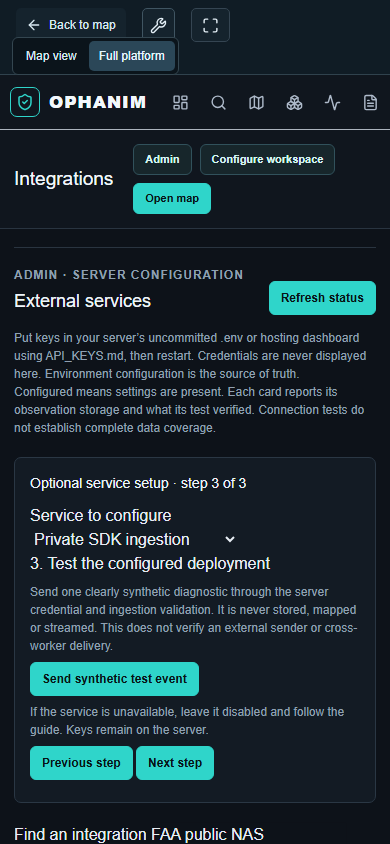
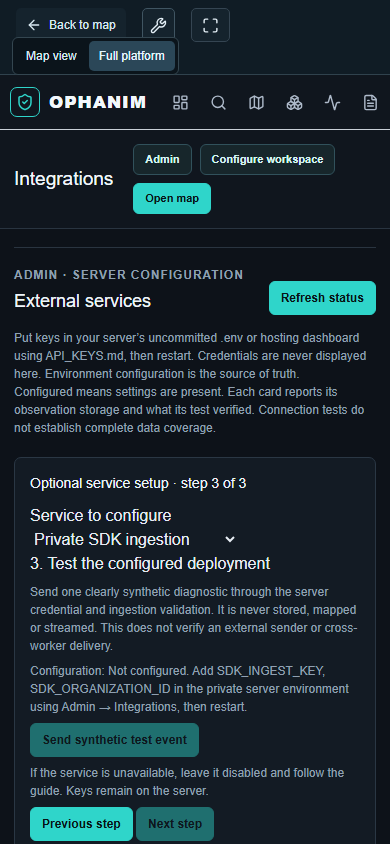
fix: recover keyless standalone maps with visible source attribution

Changed region(s): [[0.0308, 0.7701, 0.8923, 1.0]]

diff --git a/src/lib/integrations/catalog.ts b/src/lib/integrations/catalog.ts
@@ -1,4 +1,6 @@
 import countryData from '../intelligence/country-gazetteer.json' with { type: 'json' };
+import basemapSources from '../map/basemap-sources.json' with { type: 'json' };
+const OPEN_FREE_MAP = basemapSources.openFreeMap, NATURAL_EARTH_BASEMAP = basemapSources.naturalEarth;
 const COUNTRY_REFERENCE = countryData.metadata;
 /** Public metadata only. Never put credential values in this module. */
 export interface IntegrationDefinition {
@@ -19,6 +21,13 @@ const entry = (id: string, name: string, area: string, variables: string[], unlo
   ({ id, name, area, variables, unlocks, pricing, signup, fallback, ...(probe ? { probe } : {}) });
 
 export const INTEGRATIONS: IntegrationDefinition[] = [
+  ...[OPEN_FREE_MAP,NATURAL_EARTH_BASEMAP].map(source=>({
+    ...entry(source.id,source.name,'Maps',[],source.id==='openfreemap-dark'?'Keyless interactive basemap':'Labelled local reference fallback',
+      source.id==='openfreemap-dark'?'Free public map display, no account or API key; no promised SLA.':'Bundled public-domain reference, no fee or key.',
+      source.source,'Bundled Natural Earth geography; operational source status is separate.',
+      source.id==='openfreemap-dark'?OPEN_FREE_MAP.styleUrl:undefined),
+    licence:{name:source.licence,commercialUse:source.commercialUse==='yes'?'yes' as const:source.commercialUse==='no'?'no' as const:'unknown' as const,attribution:source.attribution,rateLimits:source.rateLimits,keyNeeded:false,termsUrl:source.termsUrl},
+  })),
   { ...entry('icu-country-labels', COUNTRY_REFERENCE.name, 'Reference data', [], 'Deterministic English/Arabic country and territory dictionary', 'Bundled ICU/CLDR reference, no key, no runtime requests or paid quota.', COUNTRY_REFERENCE.source, 'Local dictionary works offline; ambiguous bare names are withheld.'), licence: { name: COUNTRY_REFERENCE.licence, commercialUse: 'yes', attribution: COUNTRY_REFERENCE.attribution, rateLimits: COUNTRY_REFERENCE.rateLimits, keyNeeded: false, termsUrl: COUNTRY_REFERENCE.termsUrl } },
   { ...entry('faa-public-status', 'FAA public NAS airport status', 'Aviation', [], 'US ground stops, delay programmes and published closure/restriction metadata', 'Keyless public FAA status facts; application cache 120 seconds. Full third-party/operator NOTAM text is not republished.', 'https://nasstatus.faa.gov/', 'Keyless US status metadata; not full NOTAM coverage or flight planning.', 'https://nasstatus.faa.gov/api/airport-status-information'), licence: { name: 'US government public domain, FAA-authored public status metadata', commercialUse: 'yes', attribution: 'Federal Aviation Administration public NAS status; no endorsement. Consult the original notice for scope and exceptions.', rateLimits: 'Published rate limit not specified; one cached fetch per 120 seconds/instance, bounded response', keyNeeded: false, termsUrl: 'https://resources.data.gov/open-licenses/' } },
   { ...entry('awc-us-weather', 'NOAA US airport METAR / TAF', 'Aviation', [], 'Selected continental-US airport weather and forecast watch thresholds', 'Keyless NWS products; upstream maximum 100 requests/minute. App cap 40/minute with spaced requests and 5/10-minute METAR/TAF caches.', 'https://aviationweather.gov/data/api/', 'Keyless K-station subset; broader international reports retain the existing commercial-rights gate.', 'https://aviationweather.gov/api/data/metar?ids=KJFK&format=json'), licence: { name: 'US government public domain, NWS US METAR/TAF products', commercialUse: 'yes', attribution: 'NOAA / National Weather Service Aviation Weather Center. Unaltered raw products; Ophanim watch thresholds are separate and not official decisions.', rateLimits: 'Upstream 100 requests/minute, normally 400 results maximum; app ≤40/minute with ≥800 ms spacing; 20 selected K-stations; METAR 300 s, TAF 600 s caches', keyNeeded: false, termsUrl: 'https://www.weather.gov/disclaimer' } },

diff --git a/src/components/OphanimMap.tsx b/src/components/OphanimMap.tsx
@@ -7,6 +7,9 @@ import DynamicProviderLayers from './DynamicProviderLayers';
 import type { ProviderMapLayer } from '@/lib/providers';
 import type { MapViewport } from '@/lib/map-workspaces';
 import { geoJsonArray } from '@/lib/map/geojson-properties';
+import { atlasFallbackBasemap } from '@/lib/presentation/basemap';
+import { bindBasemapFallback } from '@/lib/map/basemap-fallback';
+import { OPEN_FREE_MAP } from '@/lib/map/basemap-sources';
 
 maplibregl.setWorkerUrl(new URL('maplibre-gl/dist/maplibre-gl-worker.mjs', import.meta.url).toString());
 
@@ -65,6 +68,7 @@ function OphanimMap({ data, activeLayers, onEntityClick, onMouseCoords, onRightC
   const mapRef = useRef<maplibregl.Map | null>(null);
   const popupRef = useRef<maplibregl.Popup | null>(null);
   const [mapReady, setMapReady] = useState(false);
+  const [basemapFallback, setBasemapFallback] = useState(false);
   const prevStyleRef = useRef<'dark' | 'earth' | 'satellite'>('dark');
 
   // Create aircraft icon on canvas (for WebGL symbol layer)
@@ -182,7 +186,7 @@ function OphanimMap({ data, activeLayers, onEntityClick, onMouseCoords, onRightC
     if (!containerRef.current || mapRef.current) return;
 
     // Select basemap style
-    const styleUrl = 'https://basemaps.cartocdn.com/gl/dark-matter-gl-style/style.json';
+    const styleUrl = OPEN_FREE_MAP.styleUrl;
 
     const map = new maplibregl.Map({
       container: containerRef.current,
@@ -191,17 +195,12 @@ function OphanimMap({ data, activeLayers, onEntityClick, onMouseCoords, onRightC
       zoom: initialView?.zoom ?? 6.5,
       minZoom: publicPresentation ? .5 : 1.5,
       maxZoom: 18,
-      attributionControl: false,
+      attributionControl: publicPresentation ? false : { compact: false },
       maxPitch: 85,
-      // Load CARTO basemap tiles DIRECTLY in the browser. Previously every tile
-      // was routed through /api/proxy-tiles, so the map fired dozens of server-side
-      // tile fetches per pan/zoom — when CARTO was momentarily slow these hung and
-      // poisoned the Next server's shared outbound connection pool, which silently
-      // broke the data feeds (CCTV, earthquakes, malware, …). CARTO's public tiles
-      // are CORS-enabled (Access-Control-Allow-Origin: *), so direct loading is
-      // correct, faster, and keeps the server's fetch pool healthy for real data.
+      // Browser tile requests stay separate from the backend data-feed pool.
       transformRequest: (url: string) => ({ url }),
     });
+    const releaseFallback = publicPresentation ? () => {} : bindBasemapFallback(map, atlasFallbackBasemap, () => setBasemapFallback(true));
 
     map.on('error', (event) => {
       // Switching a raster layer can cancel an obsolete tile request. MapLibre
@@ -1217,7 +1216,7 @@ function OphanimMap({ data, activeLayers, onEntityClick, onMouseCoords, onRightC
     });
 
     }
-    return () => { map.remove(); mapRef.current = null; };
+    return () => { releaseFallback(); map.remove(); mapRef.current = null; };
   }, []);
 
   // Day/Night
@@ -1833,6 +1832,7 @@ function OphanimMap({ data, activeLayers, onEntityClick, onMouseCoords, onRightC
 
   return <>
     <div ref={containerRef} className="absolute inset-0 w-full h-full" />
+    {basemapFallback && <p role="status" className="absolute left-2 top-2 z-10 max-w-[80%] rounded bg-black/80 px-2 py-1 text-xs text-white">Natural Earth reference basemap · remote basemap unavailable. Operational data freshness is separate.</p>}
     <DynamicProviderLayers map={mapReady ? mapRef.current : null} layers={providerLayers} onEntityClick={onEntityClick} />
   </>;
 }

diff --git a/src/components/platform/IntegrationSetupWizard.tsx b/src/components/platform/IntegrationSetupWizard.tsx
@@ -27,6 +27,7 @@ export default function IntegrationSetupWizard({ integrations, test, pending }: 
       {research && <p>For a private HTTP worker, explicitly allow its exact origin in INTEGRATION_ALLOWED_ORIGINS. Remote services should use HTTPS. Never allow metadata endpoints or untrusted origins.</p>}
       <p>Detected configuration: {service?.status ?? 'not loaded'}. Missing: {service?.missing.join(', ') || 'none reported'}. Presence alone does not prove the service is running.</p></>}
     {step === 3 && <><h4>3. Test the configured deployment</h4><p>{research ? 'The test uses the server URL/token and checks the worker health endpoint. It makes no research request. A connection success does not verify isolation, source rights or the worker’s evidence quality.' : 'Send one clearly synthetic diagnostic through the server credential and ingestion validation. It is never stored, mapped or streamed. This does not verify an external sender or cross-worker delivery.'}</p>
+      <p role="status">Configuration: {service?.status ?? 'Not loaded'}. {service?.status === 'Not configured' ? `Add ${service.missing.join(', ')} in the private server environment using Admin → Integrations, then restart.` : service?.status === 'Disabled by licence' ? 'Source rights are not approved; this action is disabled.' : ''}</p>
       <button type="button" disabled={pending || sending || !service || service.status === 'Not configured' || service.status === 'Disabled by licence'} onClick={() => research ? void test('research') : void diagnostic()}>{sending ? 'Sending diagnostic…' : research ? 'Test research connection' : 'Send synthetic test event'}</button>
       {research && service?.observation && <p role="status">{service.observation.message} · checked {service.observation.checkedAt} · last successful fetch {service.observation.lastSuccessAt ?? 'never'}</p>}{result && <p role="status">{result}</p>}
       <p>If the service is unavailable, leave it disabled and follow the guide. Keys remain on the server.</p></>}

diff --git a/src/lib/map/basemap-fallback.test.ts b/src/lib/map/basemap-fallback.test.ts
@@ -1,0 +1,33 @@
+import { afterEach, describe, expect, it, vi } from 'vitest';
+import type { Map, StyleSpecification } from 'maplibre-gl';
+import { bindBasemapFallback } from './basemap-fallback';
+const style:StyleSpecification={version:8,sources:{},layers:[]};
+function renderer() {
+  const events=new globalThis.Map<string,()=>void>();
+  const map={setStyle:vi.fn(),on:vi.fn((name:string,callback:()=>void)=>events.set(name,callback)),
+    once:vi.fn((name:string,callback:()=>void)=>events.set(name,callback)),
+    off:vi.fn((name:string)=>events.delete(name))};
+  return {map:map as unknown as Map,setStyle:map.setStyle,emit:(name:string)=>events.get(name)?.()};
+}
+describe('initial basemap outage fallback',()=>{
+  afterEach(()=>vi.useRealTimers());
+  it('recovers from an initial remote error exactly once',()=>{
+    vi.useFakeTimers();const r=renderer(),notify=vi.fn();
+    bindBasemapFallback(r.map,style,notify);
+    r.emit('error');r.emit('error');vi.advanceTimersByTime(5000);
+    expect(r.setStyle).toHaveBeenCalledExactlyOnceWith(style);expect(notify).toHaveBeenCalledTimes(1);
+  });
+  it('bounds an initial style that never finishes',()=>{
+    vi.useFakeTimers();const r=renderer();
+    bindBasemapFallback(r.map,style,()=>{});
+    vi.advanceTimersByTime(3999);expect(r.setStyle).not.toHaveBeenCalled();
+    vi.advanceTimersByTime(1);expect(r.setStyle).toHaveBeenCalledTimes(1);
+  });
+  it('never resets a loaded operational map or an unmounted renderer',()=>{
+    vi.useFakeTimers();const r=renderer();
+    bindBasemapFallback(r.map,style,()=>{});r.emit('load');r.emit('error');vi.advanceTimersByTime(5000);
+    expect(r.setStyle).not.toHaveBeenCalled();
+    const next=renderer(),dispose=bindBasemapFallback(next.map,style,()=>{});dispose();vi.advanceTimersByTime(5000);
+    expect(next.setStyle).not.toHaveBeenCalled();
+  });
+});

diff --git a/src/lib/map/provider-layer-binding.ts b/src/lib/map/provider-layer-binding.ts
@@ -1,6 +1,7 @@
 import type * as maplibregl from 'maplibre-gl';
 import type { GeoJSONSourceSpecification } from 'maplibre-gl';
 import type { ProviderMapLayer } from '@/lib/providers/types';
+import { OPEN_FREE_MAP } from './basemap-sources';
 
 const sourceId = (layer: ProviderMapLayer) => `provider-source-${layer.id}`;
 const layerId = (layer: ProviderMapLayer, suffix = 'main') => `provider-layer-${layer.id}-${suffix}`;
@@ -39,7 +40,7 @@ export function bindProviderLayers(map: maplibregl.Map, layers: ProviderMapLayer
           if (useClusters) {
             const clusterId = layerId(layer, 'cluster');
             map.addLayer({ id: clusterId, type: 'circle', source, filter: ['has', 'point_count'], paint: { 'circle-color': paint.color, 'circle-radius': ['interpolate', ['linear'], ['get', 'point_count'], 2, 14, 100, 22, 1000, 30], 'circle-opacity': paint.opacity ?? 0.85, 'circle-stroke-color': '#0b131b', 'circle-stroke-width': 2 } });
-            map.addLayer({ id: layerId(layer, 'cluster-label'), type: 'symbol', source, filter: ['has', 'point_count'], layout: { 'text-field': ['to-string', ['get', 'point_count_abbreviated']], 'text-font': ['Open Sans Bold'], 'text-size': 12, 'text-allow-overlap': true }, paint: { 'text-color': '#081011' } });
+            map.addLayer({ id: layerId(layer, 'cluster-label'), type: 'symbol', source, filter: ['has', 'point_count'], layout: { 'text-field': ['to-string', ['get', 'point_count_abbreviated']], 'text-font': [OPEN_FREE_MAP.clusterFont], 'text-size': 12, 'text-allow-overlap': true }, paint: { 'text-color': '#081011' } });
             const handler = (event: maplibregl.MapLayerMouseEvent) => {
               const feature = event.features?.[0], id = feature?.properties?.cluster_id;
               if (feature?.geometry.type !== 'Point' || typeof id !== 'number' || !Number.isFinite(id)) return;

diff --git a/src/components/presentation/PresentationGlobe.tsx b/src/components/presentation/PresentationGlobe.tsx
@@ -4,6 +4,7 @@ import { useCallback, useEffect, useMemo, useRef, useState } from 'react';
 import * as maplibregl from 'maplibre-gl';
 import OphanimMap from '@/components/OphanimMap';
 import { atlasFallbackBasemap } from '@/lib/presentation/basemap';
+import { OPEN_FREE_MAP } from '@/lib/map/basemap-sources';
 import { atlasPresentationData, pickPublicMapPoint } from '@/lib/presentation/map-adapter';
 import type { FeedId, PresentationFeed } from '@/lib/presentation/types';
 import type { MapProjection, MapStyle, MapViewport } from '@/lib/map-workspaces';
@@ -31,7 +32,7 @@ export default function PresentationGlobe({ feeds, hidden, onSelect, locate, pro
   useEffect(() => {
     const controller = new AbortController();
     // Keep the original dark cartography without CARTO's API-key watermark.
-    void fetch('https://tiles.openfreemap.org/styles/dark', { signal: AbortSignal.any([controller.signal,AbortSignal.timeout(1800)]) })
+    void fetch(OPEN_FREE_MAP.styleUrl, { signal: AbortSignal.any([controller.signal,AbortSignal.timeout(1800)]) })
       .then(async response => { if (!response.ok) throw new Error('Style unavailable'); const style = await response.json(); if (style.version !== 8 || !Array.isArray(style.layers)) throw new Error('Invalid style'); if (!controller.signal.aborted) setBasemap(style); })
       .catch(() => { if (!controller.signal.aborted) { setBasemap(atlasFallbackBasemap); setFallback(true); } });
     return () => controller.abort();

diff --git a/src/lib/map/basemap-sources.test.ts b/src/lib/map/basemap-sources.test.ts
@@ -1,0 +1,25 @@
+import { createHash } from 'node:crypto';
+import { readFileSync } from 'node:fs';
+import { describe, expect, it } from 'vitest';
+import { OPEN_FREE_MAP, NATURAL_EARTH_BASEMAP } from './basemap-sources';
+import { registeredReferenceDatasets } from '@/lib/intelligence/event-provider-registry';
+import { INTEGRATIONS } from '@/lib/integrations/catalog';
+
+describe('basemap source governance and packaged reference integrity',()=>{
+  it('registers both keyless map sources with reviewed commercial rights and attribution',()=>{
+    for(const source of [OPEN_FREE_MAP,NATURAL_EARTH_BASEMAP]) {
+      expect(registeredReferenceDatasets.some(record=>record.id===source.id)).toBe(true);
+      const integration=INTEGRATIONS.find(record=>record.id===source.id);
+      expect(integration?.variables).toEqual([]);
+      expect(integration?.licence).toMatchObject({commercialUse:'yes',keyNeeded:false});
+      expect(integration?.licence?.attribution).toBeTruthy();
+      expect(integration?.licence?.rateLimits).toBeTruthy();
+      expect(source.datasetDate).toBeNull();
+    }
+  });
+  it('pins the actual bundled geography without inventing an upstream dataset date',()=>{
+    const bytes=readFileSync('public/presentation/countries.geojson');
+    expect(createHash('sha256').update(bytes).digest('hex')).toBe(NATURAL_EARTH_BASEMAP.sha256);
+    expect(JSON.parse(bytes.toString()).features).toHaveLength(177);
+  });
+});

diff --git a/src/app/globals.css b/src/app/globals.css
@@ -843,7 +843,7 @@ html, body {
    ═══════════════════════════════════════════════════════════════ */
 .maplibregl-popup-content { background: transparent !important; border: none !important; box-shadow: none !important; padding: 0 !important; }
 .maplibregl-popup-tip { display: none !important; }
-.maplibregl-ctrl-attrib { display: none !important; }
+.maplibregl-ctrl-attrib { max-width: 100%; font-size: 10px; }
 .maplibregl-popup-close-button { color: var(--text-muted) !important; font-size: 16px !important; padding: 4px 8px !important; }
 .maplibregl-popup-close-button:hover { color: var(--gold-primary) !important; }
 
@@ -3996,3 +3996,8 @@ a.ops-stat:hover { border-color: var(--border-active); background: #1a2028; }
 .world-map-workspace:fullscreen .world-map-mode { display: none; }
 .world-map-workspace:fullscreen .world-map-canvas,
 .world-map-workspace:fullscreen .world-map-canvas > div:not(.world-map-source-badge):not(.world-map-inspector) { min-height: 0; height: 100%; }
+
+.platform-section button:disabled {
+  opacity: .45;
+  cursor: not-allowed;
+}

diff --git a/src/lib/map/basemap-fallback.ts b/src/lib/map/basemap-fallback.ts
@@ -1,0 +1,20 @@
+import type { Map, StyleSpecification } from 'maplibre-gl';
+
+/** Fallback only during initial startup; never reset a working map's data layers. */
+export function bindBasemapFallback(map: Map, style: StyleSpecification, onFallback: () => void, milliseconds = 4000) {
+  let disposed = false, applied = false;
+  const fallback = () => {
+    if (disposed || applied) return;
+    applied = true;
+    clearTimeout(timer);
+    try { map.setStyle(style); onFallback(); } catch { /* Renderer shutdown can race a failed request. */ }
+  };
+  const loaded = () => dispose();
+  const timer = setTimeout(fallback, milliseconds);
+  const dispose = () => {
+    disposed = true; clearTimeout(timer);
+    map.off('error', fallback); map.off('load', loaded);
+  };
+  map.on('error', fallback); map.once('load', loaded);
+  return dispose;
+}

diff --git a/src/lib/intelligence/event-provider-registry.ts b/src/lib/intelligence/event-provider-registry.ts
@@ -5,7 +5,8 @@ import { gdacsHazardProvider } from './gdacs-provider';
 import { aviationEventProviders } from './aviation-providers';
 import { MARITIME_NETWORK } from '@/lib/route-intelligence/open-network';
 import { COUNTRY_REFERENCE } from './country-gazetteer';
-export const registeredReferenceDatasets = [MARITIME_NETWORK, COUNTRY_REFERENCE];
+import { OPEN_FREE_MAP, NATURAL_EARTH_BASEMAP } from '@/lib/map/basemap-sources';
+export const registeredReferenceDatasets = [MARITIME_NETWORK, COUNTRY_REFERENCE, OPEN_FREE_MAP, NATURAL_EARTH_BASEMAP];
 import {
   validateNormalizedIntelligenceEvent,
   type IntelligenceEventProvider,

diff --git a/src/lib/map/basemap-sources.ts b/src/lib/map/basemap-sources.ts
@@ -1,0 +1,3 @@
+import sources from './basemap-sources.json';
+export const OPEN_FREE_MAP = sources.openFreeMap;
+export const NATURAL_EARTH_BASEMAP = sources.naturalEarth;

diff --git a/PARITY/PROGRESS.md b/PARITY/PROGRESS.md
@@ -489,3 +489,37 @@ verified; never infer completion from a catalog entry or this plan.
 - Evidence: presentation-validation/results.json, integrations-results.json and screenshots/. Latest app unit suite543 passed/5 skipped; typecheck, targeted lint, production build passed. Known-token browser scan271 chunks/zero findings.
 - Task00a local baseline alignment is complete. First unfinished01-integrations remains partial; broad specialist/analysis/platform work is not complete. Draft PR25 base correction/push deferred to final delivery to keep deployment last. No GitHub merge/deployment.
 - Next audit: standalone Route/Hazard/Aviation maps still inherit CARTO style URL; choose working keyless basemap with attribution/fallback. Mobile optional-setup buttons are semantically disabled but need clearer visible configuration/disabled cues. Then resume full source/protocol inventory and remaining parity.
+
+## 21 October 2026 — standalone map/source recovery (in progress)
+
+- Replaced the standalone CARTO default with the shared keyless OpenFreeMap Dark
+  source. Initial style errors/four-second startup failures recover to the bundled,
+  attributed Natural Earth reference; recovery listeners are removed after load,
+  so later tile failures cannot reset an operational map. Tests cover bounded,
+  one-shot recovery and loaded/unmounted-map preservation.
+- Both map sources are now explicit catalogue/registry entries with reviewed
+  licences, attribution, rates, key requirements and unknown upstream dates.
+  Natural Earth geometry is hash-pinned. API inventory is now 65 entries/119 empty
+  identifiers. Primary documentation is linked in docs/BASEMAP_RELIABILITY.md.
+- Actual font endpoint check: Open Sans Bold404, Noto Sans Regular200. Cluster
+  label font changed accordingly; see map-source-audit.json. This HTTP observation
+  is not a GPU/freshness claim.
+- Optional setup step3 now explains configuration/missing identifiers, and disabled
+  platform actions are visibly dimmed. Added dedicated native browser checks for
+  real reference-port clustering, Dubai–Rotterdam calculation/CSV and Hazard/
+  Aviation fallback maps. Browser checks have not run on the new build yet.
+- Latest 548 tests passed, 5 skipped; typecheck passed. Final build/lint in progress.
+  Then run native-only and integrations-only browser checks, inspect evidence,
+  update report/state and commit this task. Broader01 and parity remain partial.
+
+- Final checks passed: production build, standalone typecheck, targeted lint and
+  548 unit tests (5 skipped). Native browser run passed reference geography/
+  attribution, 3,962 clustered ports, real Dubai–Rotterdam model/closure rendering,
+  CSV export and Hazard/Aviation startup recovery. Updated Integrations run passed
+  its seven checks, including the visible missing-configuration/disabled cues.
+- Removed an inherited global CSS rule hiding attribution. Native screenshots
+  and native-results.json are in presentation-validation/. Reference data is the
+  actual bundled dataset; organization/session/event test records are synthetic.
+  Remote API access is blocked, so this is not a live-feed or full-GPU/FPS claim.
+- Client known-token scan: 271 chunks, zero findings. Next: resume remaining
+  protocol tests/setup profiles/universal missing-key states and broader P1–P4.
